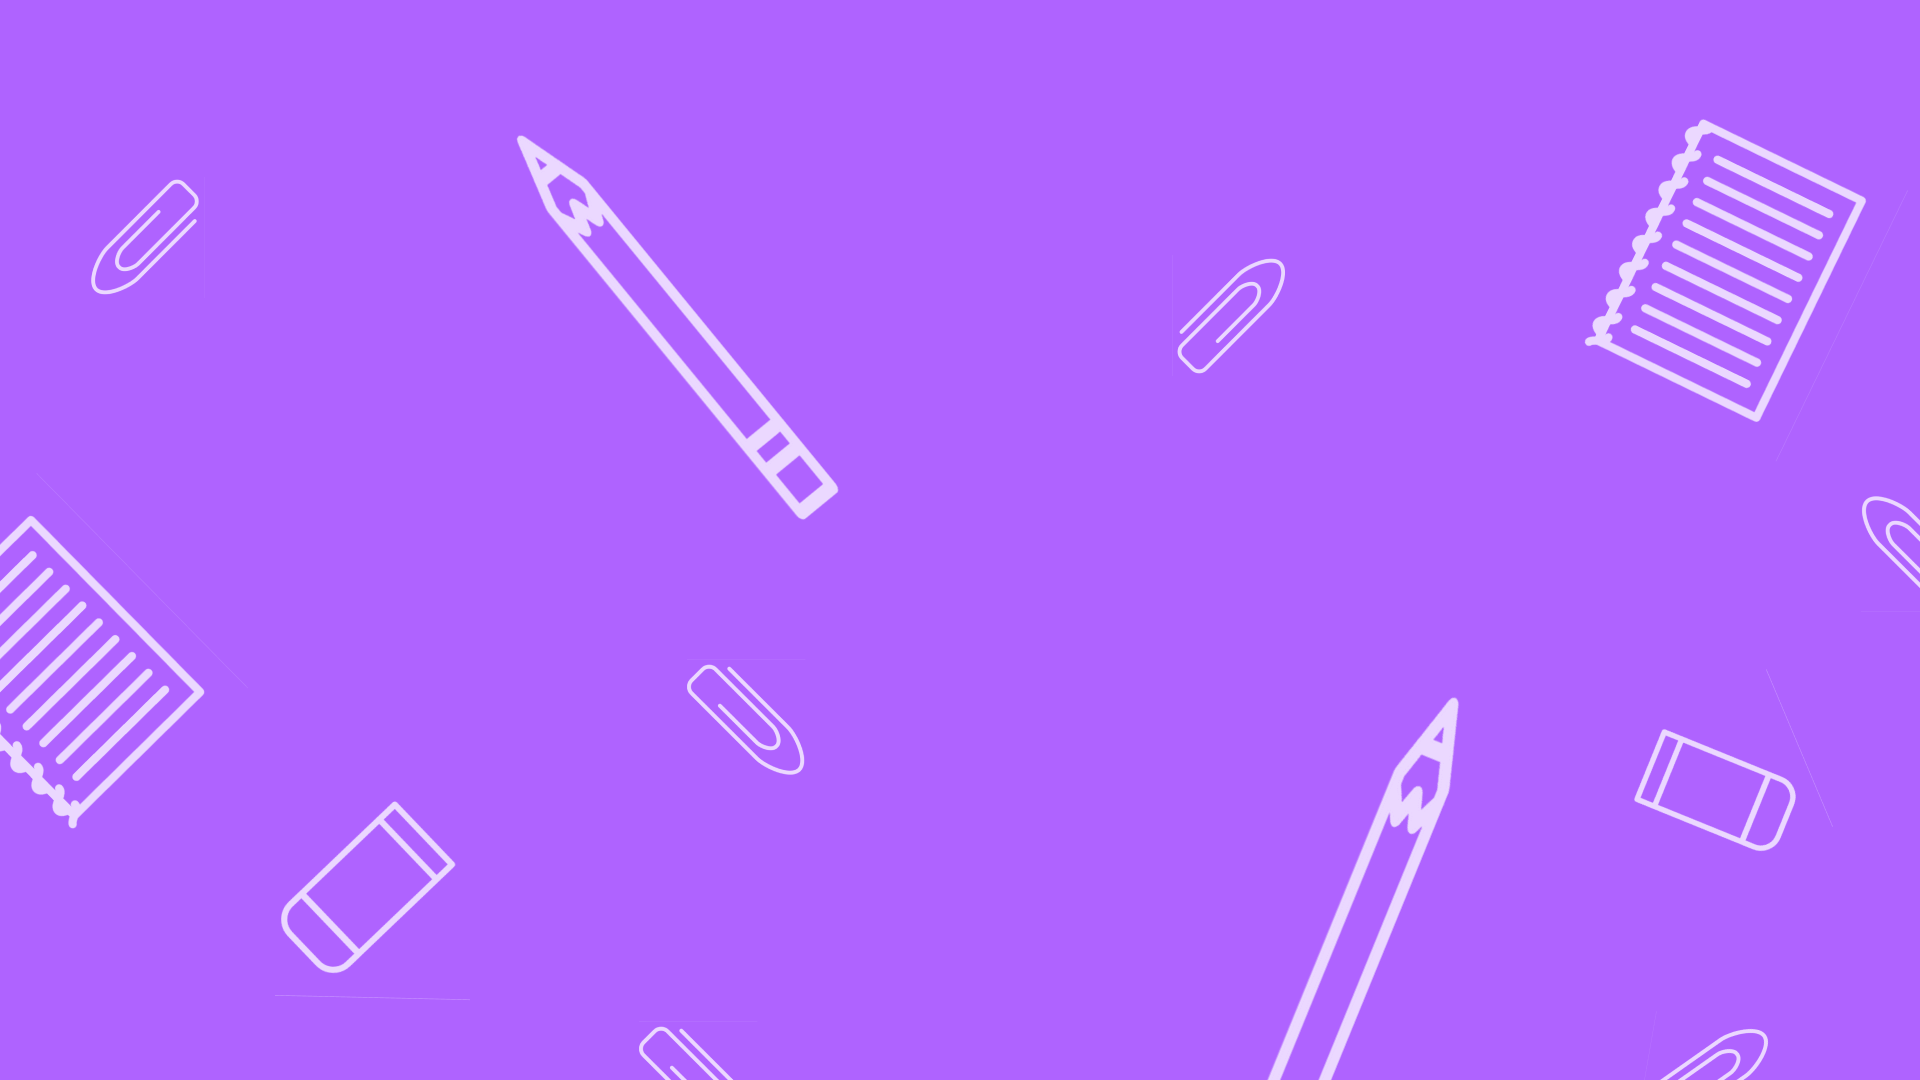
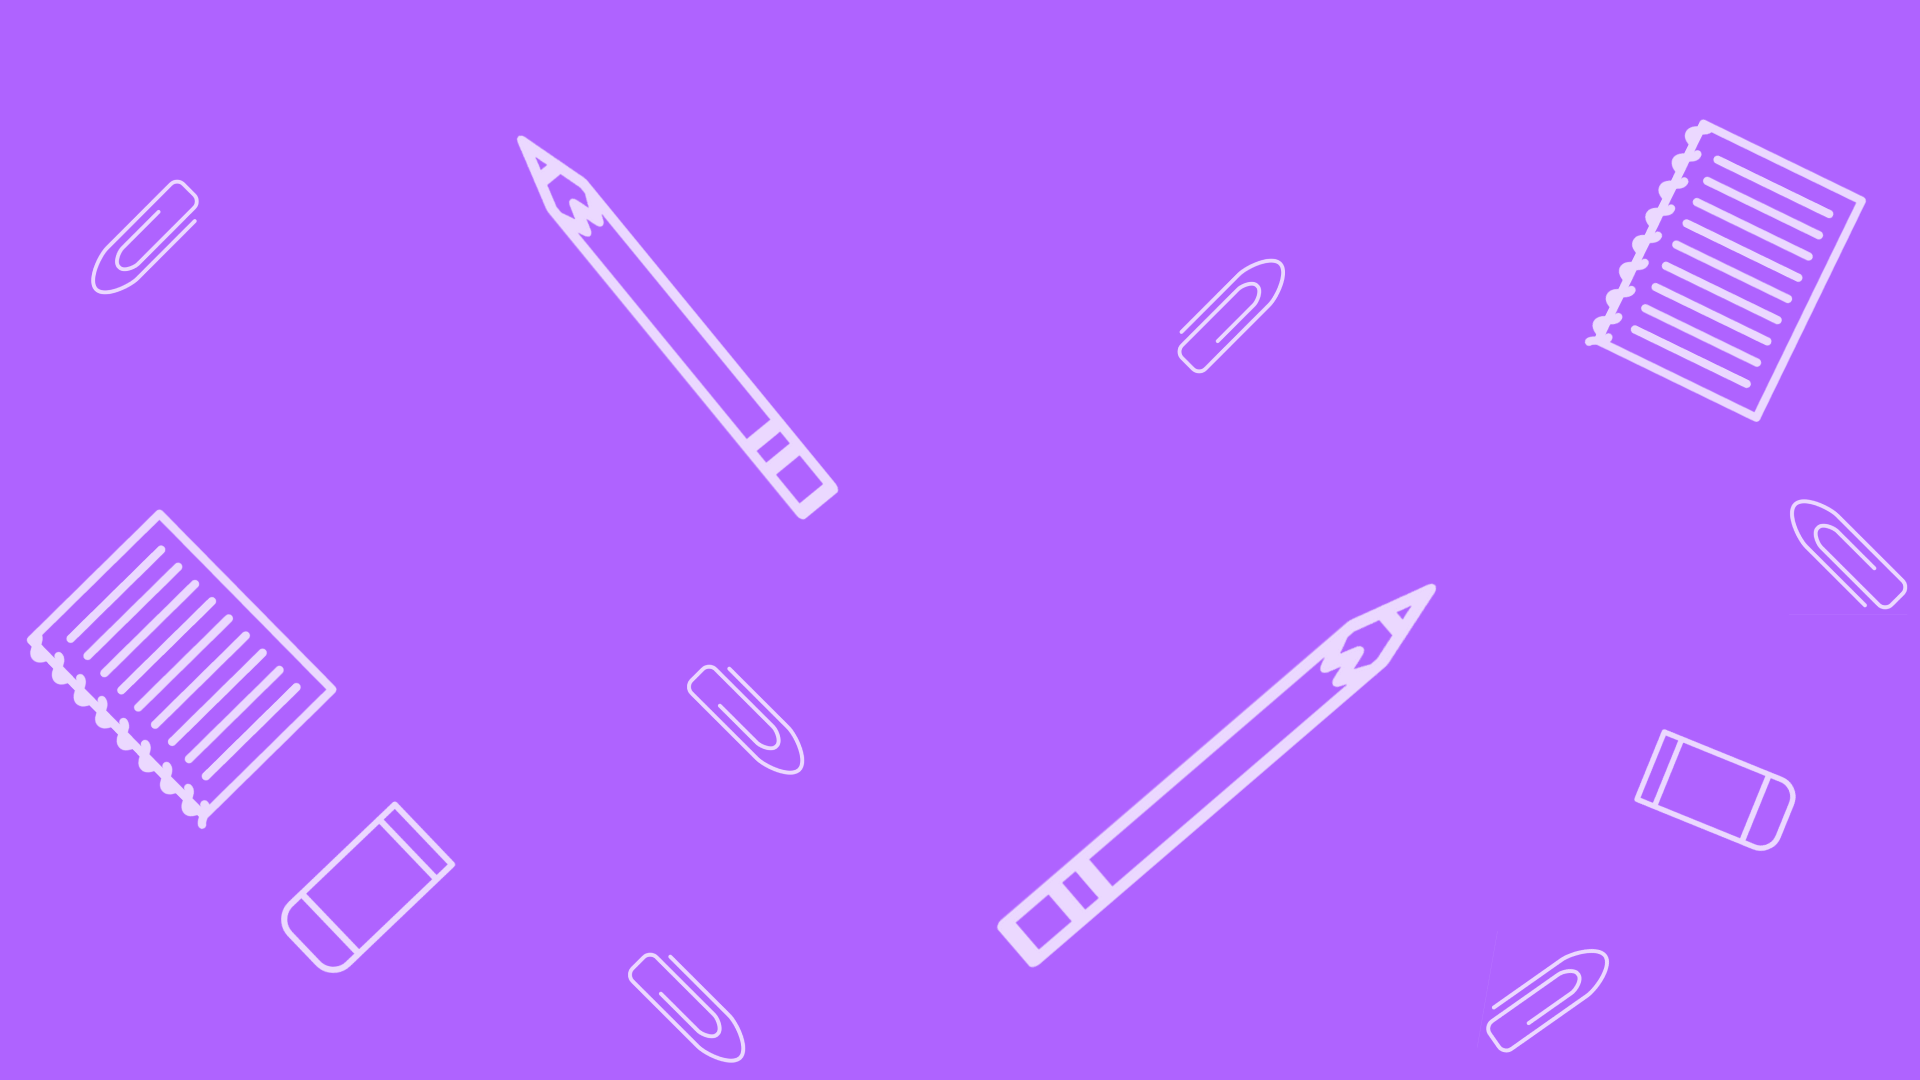
fix(homepage, login, register): fix background in mobile and add links

diff --git a/src/app/features/homepage/homepage/homepage.component.scss b/src/app/features/homepage/homepage/homepage.component.scss
@@ -3,13 +3,12 @@
     flex-direction: column;
     justify-content: center;
 
-    // background-image: url('../../../../assets/images/bg-desktop-orange.png');
     background-image: url('../../../../assets/images/bg-desktop-yellow.png');
-    // background-color: var(--accent-color);
-    background-size: cover;
+    // background-size: cover;
+    background-size: contain;
     background-attachment: fixed;
 
-    background-position: left; // mobile
+    background-position: left top; // mobile
 }
 
 .header {
@@ -36,24 +35,21 @@
 }
 
 .logo {
-    display: flex;
-    justify-content: center;
+    display: grid;
+    place-items: center;
     margin-bottom: 1rem;
     
-    h1 {
-        display: inline;
+    > button {
+        background-color: var(--green-dark-color);
+
+        font-size: clamp(2rem, -0.2500rem + 10vw, 5rem);
+        color: var(--light-text);
+        
+        padding: 0.5em 1em;
+        border-radius: 15px;
         
         box-shadow: 0px 1px 3px #303030;
-        background-color: var(--green-dark-color);
-        
-        color: var(--light-text);
-        font-size: clamp(2rem, -0.2500rem + 10vw, 5rem);
         font-weight: 500;
-        
-        padding: 0.6em 1em;
-        margin: 0;
-        
-        border-radius: 15px;
     }
 }
 
@@ -183,5 +179,6 @@
     > div {
         display: flex;
         align-items: center;
+        gap: 0.2rem;
     }
 }

diff --git a/src/app/features/auth/register/register.component.scss b/src/app/features/auth/register/register.component.scss
@@ -2,13 +2,12 @@
     display: flex;
     flex-direction: column;
 
-    height: 100%;
+    min-height: 100%;
 
     // background-color: var(--warn-color);
     background-image: url('../../../../assets/images/bg-desktop-purple.png');
-    background-size: cover;
-    background-position: left;
-    background-attachment: fixed;
+    // background-size: cover;
+    background-size: contain;
 }
 
 .navbar {
@@ -23,23 +22,21 @@
 }
 
 .logo {
-    display: flex;
-    justify-content: center;
+    display: grid;
+    place-items: center;
+    margin-bottom: 1rem;
     
-    h1 {
-        display: inline;
+    > button {
+        background-color: var(--purple-dark-color);
+
+        font-size: clamp(2rem, -0.2500rem + 10vw, 5rem);
+        color: var(--light-text);
+        
+        padding: 0.4em 0.7em;
+        border-radius: 15px;
         
         box-shadow: 0px 1px 3px #303030;
-        background-color: var(--purple-dark-color);
-        
-        color: var(--light-text);
-        font-size: clamp(2rem, -0.2500rem + 10vw, 5rem);
         font-weight: 500;
-        
-        padding: 0.6em 1em;
-        // margin: 0;
-        
-        border-radius: 15px;
     }
 }
 
@@ -76,4 +73,9 @@
     display: grid;
     place-items: center;
     gap: 0.5rem;
+}
+
+.register-button {
+    background-color: var(--purple-color);
+    color: var(--light-text);
 }

diff --git a/src/app/features/auth/login/login.component.scss b/src/app/features/auth/login/login.component.scss
@@ -2,12 +2,12 @@
     display: flex;
     flex-direction: column;
 
-    height: 100%;
+    min-height: 100%;
 
     // background-color: var(--primary-color);
     background-image: url('../../../../assets/images/bg-desktop-blue.png');
-    background-size: cover;
-    background-position: left;
+    // background-size: cover;
+    background-size: contain;
 }
 
 .navbar {
@@ -23,23 +23,21 @@
 }
 
 .logo {
-    display: flex;
-    justify-content: center;
+    display: grid;
+    place-items: center;
+    margin-bottom: 1rem;
     
-    h1 {
-        display: inline;
+    > button {
+        background-color: var(--purple-dark-color);
+
+        font-size: clamp(2rem, -0.2500rem + 10vw, 5rem);
+        color: var(--light-text);
+        
+        padding: 0.4em 0.7em;
+        border-radius: 15px;
         
         box-shadow: 0px 1px 3px #303030;
-        background-color: var(--purple-dark-color);
-        
-        color: var(--light-text);
-        font-size: clamp(2rem, -0.2500rem + 10vw, 5rem);
         font-weight: 500;
-        
-        padding: 0.6em 1em;
-        // margin: 0;
-        
-        border-radius: 15px;
     }
 }
 

diff --git a/src/app/features/auth/register/register.component.html b/src/app/features/auth/register/register.component.html
@@ -1,5 +1,5 @@
 <nav class="navbar">
-    <button mat-raised-button>
+    <button mat-raised-button [routerLink]="['/auth/login']">
         <mat-icon>login</mat-icon>
         Iniciar Sesión
     </button>
@@ -7,7 +7,9 @@
 
 <main class="main">
     <div class="logo">
-        <h1>Planishare</h1>
+      <button mat-raised-button [routerLink]="'/'">
+        Planishare
+      </button>
     </div>
     
     <div class="container">
@@ -48,9 +50,9 @@
                     </mat-form-field>
         
                     <div class="buttons">
-                        <button mat-raised-button color="primary">
-                            <mat-icon>login</mat-icon>
-                            Iniciar sesión
+                        <button mat-raised-button class="register-button">
+                            <mat-icon>person_add</mat-icon>
+                            Registrarse
                         </button>
                         <span>o</span>
                         <button mat-stroked-button>

diff --git a/src/app/features/homepage/homepage/homepage.component.html b/src/app/features/homepage/homepage/homepage.component.html
@@ -1,7 +1,12 @@
 <header class="header">
   <div class="container1">
-    <div class="logo">
+    <!-- <div class="logo">
       <h1>Planishare</h1>
+    </div> -->
+    <div class="logo">
+      <button mat-raised-button [routerLink]="'/'">
+        Planishare
+      </button>
     </div>
     <div class="subtitle1" *ngIf="!isMobile()">
       <h2>
@@ -41,10 +46,12 @@
     <div class="ranking">
       <mat-card class="card">
         <mat-card-subtitle class="card-subtitle">
-          Mariela Bustamante - Hace 1 Mes
+          <div>
+            <span>Mariela Bustamante - Hace 1 Mes</span>
+          </div>
           <div>
             <mat-icon>description</mat-icon>
-            3
+            <span>3</span>
           </div>
         </mat-card-subtitle>
         <mat-card-title>Planificación de Matemática para 3ro básico</mat-card-title>

diff --git a/src/app/shared/shared.module.ts b/src/app/shared/shared.module.ts
@@ -8,6 +8,7 @@ import { BigButtonComponent } from './components/big-button/big-button.component
 import { SearchDialogComponent } from './components/search-dialog/search-dialog.component';
 import { FormsModule } from '@angular/forms';
 import { NavigationSidenavComponent } from './components/navigation-sidenav/navigation-sidenav.component';
+import { RouterModule } from '@angular/router';
 
 @NgModule({
     declarations: [
@@ -20,7 +21,8 @@ import { NavigationSidenavComponent } from './components/navigation-sidenav/navi
     imports: [
         CommonModule,
         MaterialModule,
-        FormsModule
+        FormsModule,
+        RouterModule
     ],
     exports: [
         // Components

diff --git a/src/app/shared/components/navbar/navbar.component.html b/src/app/shared/components/navbar/navbar.component.html
@@ -2,10 +2,10 @@
     <app-search-button></app-search-button>
     <ul>
         <li>
-            <app-big-button text="Registrarse" icon="person_add"></app-big-button>
+            <app-big-button text="Registrarse" icon="person_add" [routerLink]="['/auth/register']"></app-big-button>
         </li>
         <li>
-            <app-big-button text="Iniciar Sesión" icon="login"></app-big-button>
+            <app-big-button text="Iniciar Sesión" icon="login" [routerLink]="['/auth/login']"></app-big-button>
         </li>
         <li>
             <app-big-button text="Mis publicaciones" icon="description"></app-big-button>

diff --git a/src/app/shared/components/navigation-sidenav/navigation-sidenav.component.html b/src/app/shared/components/navigation-sidenav/navigation-sidenav.component.html
@@ -6,13 +6,13 @@
         </button>
     </li>
     <li>
-        <button mat-button class="menu-button">
+        <button mat-button class="menu-button" [routerLink]="['/auth/register']">
             <mat-icon>person_add</mat-icon>
             <span>Registrarse</span>
         </button>
     </li>
     <li>
-        <button mat-button class="menu-button">
+        <button mat-button class="menu-button" [routerLink]="['/auth/login']">
             <mat-icon>login</mat-icon>
             <span>Iniciar sesión</span>
         </button>

diff --git a/src/app/features/auth/login/login.component.html b/src/app/features/auth/login/login.component.html
@@ -1,5 +1,5 @@
 <nav class="navbar">
-    <button mat-raised-button>
+    <button mat-raised-button [routerLink]="'/auth/register'">
         <mat-icon>person_add</mat-icon>
         Registrarse
     </button>
@@ -7,7 +7,9 @@
 
 <main class="main">
     <div class="logo">
-        <h1>Planishare</h1>
+      <button mat-raised-button [routerLink]="'/'">
+        Planishare
+      </button>
     </div>
     
     <div class="container">

diff --git a/src/app/shared/components/search-dialog/search-dialog.component.html b/src/app/shared/components/search-dialog/search-dialog.component.html
@@ -9,7 +9,7 @@
       </button>
     </mat-form-field>
   
-    <div class="filters" [ngClass]="{'flex_wrap': isMobile()}">
+    <div class="filters" [ngClass]="isMobile() ? 'flex_wrap' : 'gap-1'">
       <mat-form-field class="academic-level-select" appearance="outline">
         <mat-label>Nivel Académico</mat-label>
         <mat-select>

diff --git a/src/assets/styles/helpers/_display.scss b/src/assets/styles/helpers/_display.scss
@@ -94,3 +94,8 @@
 // .flex_inline {
 //   display: inline-flex;
 // }
+
+// Start others
+.gap-1 {
+  gap: 1rem;
+}
